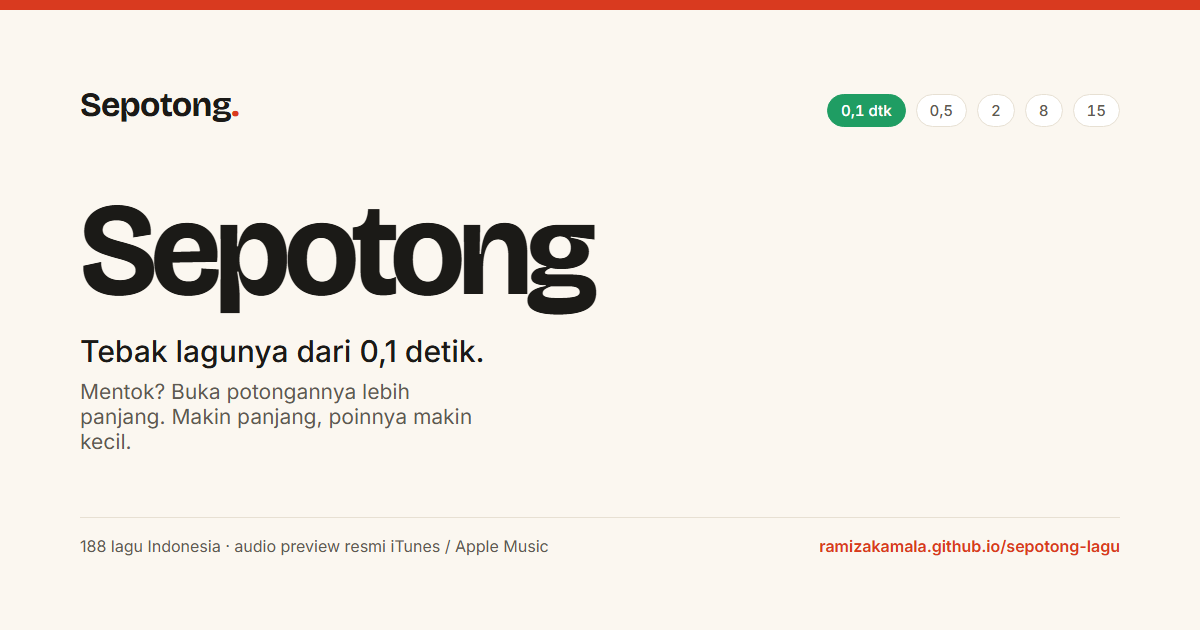
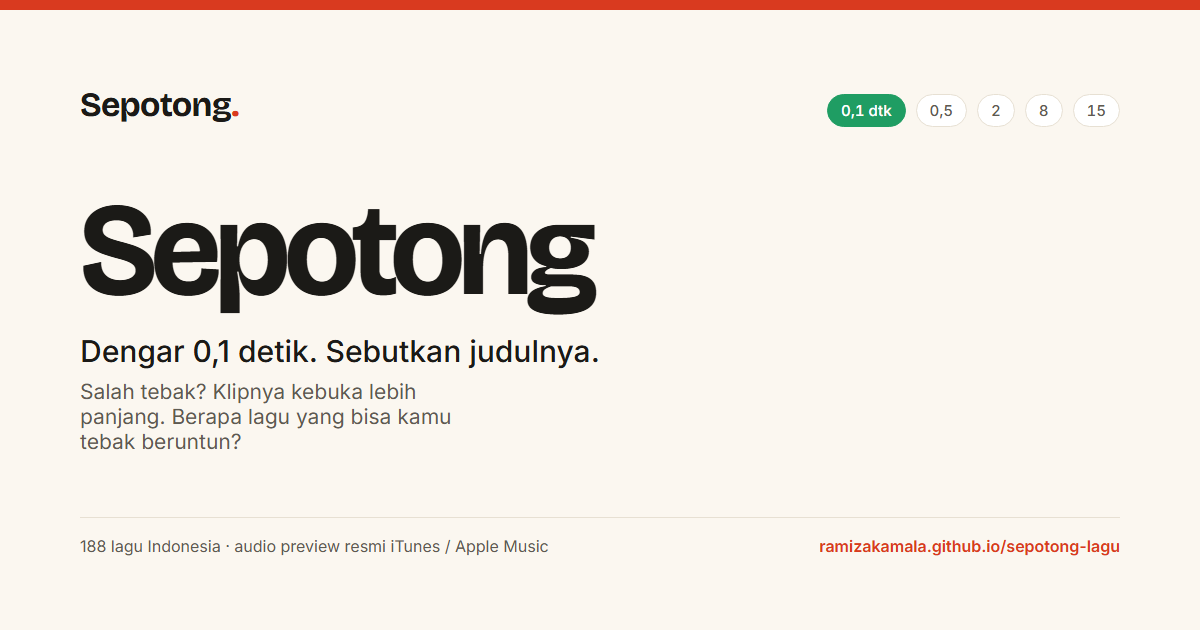
Memperbarui dokumentasi dan gambar pratinjau sesuai sistem beruntun
Dokumentasi menjelaskan alur satu lagu, aturan beruntun, penyimpanan
rekor, hasil pengukuran presisi klip, serta alasan tingkat kesulitan
ala Songspot tidak diadopsi karena data jumlah stream lagu tidak
tersedia.

Changed region(s): [[0.0617, 0.5429, 0.4933, 0.7238]]

diff --git a/README.md b/README.md
@@ -1,8 +1,8 @@
 # Sepotong
 
-Game tebak lagu Indonesia. Pemain mendengar potongan **0,1 detik**. Kalau belum yakin, potongan yang sama dibuka lebih panjang: 0,5 → 2 → 8 → 15 detik, dan poin turun tiap kali dibuka. Satu sesi 10 soal.
+Game tebak lagu Indonesia dengan potongan 0,1 detik. Pemain mendengar potongan pendek, mengetik judul lagunya, dan setiap tebakan yang salah membuka potongan yang sama lebih panjang: 0,1 → 0,5 → 2 → 8 → 15 detik. Skornya bukan poin, tapi **beruntun** (jumlah lagu yang ditebak benar tanpa terputus) dan waktu tebak.
 
-Referensi mekanik: songspot.net (versi aslinya memakai lagu luar). Bank lagu, aturan skor, dan tampilan di sini dibuat sendiri.
+Sistemnya mengikuti Songspot (songspot.net): ketik judul, salah tebak membuka klip, lewati atau menyerah memutus beruntun. Bedanya, bank lagu di sini khusus lagu Indonesia.
 
 ## Cara jalanin
 
@@ -16,40 +16,44 @@ python -m http.server 8000
 
 lalu buka http://127.0.0.1:8000
 
+## Alur satu lagu
+
+1. Klip 0,1 detik diputar otomatis. Tombol putar dan tombol spasi memutar ulang potongan yang sama tanpa biaya.
+2. Pemain mengetik judul. Saran muncul dari bank lagu (judul dan nama artis), maksimal 6 baris, dan jawaban diambil dari saran itu supaya tidak ada salah ketik yang dihitung salah.
+3. Tebakan salah: potongan dibuka ke tahap berikutnya dari titik yang sama dan diputar otomatis. Tebakan yang sudah dicoba ditandai.
+4. Benar: beruntun bertambah, waktu tebak tercatat, dan layar jawaban muncul dengan cover, judul, artis, tahun, genre, pemutar 30 detik, dan tautan Apple Music kalau ada.
+5. Salah di tahap terakhir, lewati, atau menyerah: beruntun kembali ke nol, rekor tetap tersimpan. Layar jawaban menampilkan lagu yang sebenarnya.
+
 ## Isi
 
 | File | Fungsi |
 | --- | --- |
-| `index.html` | struktur layar Beranda, Main, Jawaban, Ringkasan, dan tiga sheet |
+| `index.html` | struktur layar Beranda, Main, Jawaban, dan dua sheet |
 | `style.css` | token desain di `:root`, tema terang + gelap, tata letak satu kolom |
-| `app.js` | mesin audio Web Audio API, alur permainan, skor, penyimpanan lokal |
+| `app.js` | mesin audio Web Audio API, pencocokan judul, alur permainan, beruntun |
 | `songs.js` | bank lagu (188 entri): judul, artis, tahun, genre, cover, preview |
 | `og-image.png` | gambar 1200×630 untuk pratinjau tautan |
 
 ## Audio
 
-- Sumber: preview resmi 30 detik dari katalog iTunes / Apple Music (`itunes.apple.com/search`, negara ID). Tidak ada file audio di repo, jadi butuh internet.
-- Pemutaran memakai Web Audio API (`AudioBufferSourceNode.start(0, offset, durasi)`), bukan `<audio>` + timer. Diukur di Chrome: 0,1 s → 0,10 s; 0,5 s → 0,51 s; 2 s → 2,01 s; 8 s → 8,01 s; 15 s → 15,01 s (selisih 1–11 ms).
-- Preview iTunes mengirim `Access-Control-Allow-Origin: *`, jadi bisa di-fetch dan di-decode langsung dari browser. Ini yang membuat Web Audio bisa dipakai tanpa server sendiri; sudah diperiksa lewat header respons.
-- Titik mulai diacak di rentang 3–13 detik, lalu digeser ke bagian yang volumenya minimal 35% dari puncak preview (RMS jendela 0,1 detik). Tujuannya supaya potongan 0,1 detik tidak pernah jatuh di bagian hening. Titik mulai yang sama dipakai untuk semua tahap.
-- Soal berikutnya di-preload selagi pemain berpikir. Kalau satu lagu gagal dimuat, dicoba sekali lagi, lalu diganti lagu lain tanpa mengurangi jumlah soal.
-- Satu suara aktif pada satu waktu; memutar yang baru menghentikan yang lama.
+- Sumber: preview resmi 30 detik dari katalog iTunes / Apple Music (`itunes.apple.com/search`, negara ID). Tidak ada berkas audio di repo, jadi butuh internet.
+- Pemutaran memakai Web Audio API (`AudioBufferSourceNode.start(0, offset, durasi)`), bukan `<audio>` + timer. Diukur di Chrome: 0,1 s → 0,104 s; 2 s → 2,009 s; 15 s → 15,008 s (selisih 4–9 ms).
+- Preview iTunes mengirim `Access-Control-Allow-Origin: *`, jadi bisa di-fetch dan di-decode langsung dari browser tanpa server sendiri.
+- Titik mulai diacak di rentang 3–13 detik lalu digeser ke bagian yang volumenya minimal 35% dari puncak preview (RMS jendela 0,1 detik), supaya potongan 0,1 detik tidak jatuh di bagian hening. Titik yang sama dipakai untuk semua tahap.
+- Bisa diganti ke "awal lagu" lewat Pengaturan: potongan dimulai dari detik 0.
+- Lagu berikutnya di-preload saat pemain masih mengetik. Kalau satu lagu gagal dimuat, dicoba sekali lagi lalu diganti lagu lain.
 
-## Aturan main
+## Beruntun dan rekor
 
-- 10 soal per sesi, 4 pilihan judul, tanpa batas waktu.
-- Poin per soal menurut tahap saat benar: 100 / 70 / 45 / 25 / 10. Salah tidak mengakhiri soal: jawaban salah dimatikan, klip dibuka ke tahap berikutnya (poin ikut turun), lalu pemain masih boleh menebak.
-- Tombol Lewati membuka tahap berikutnya tanpa menebak; di tahap terakhir berubah jadi menyerah (0 poin).
-- Ringkasan menampilkan skor dari 1000, gelar, grid emoji hasil, akurasi, rata-rata tahap, dan rincian per soal. Teks bagikan tidak memuat judul lagu.
-- Keyboard: `1`–`4` menjawab, `spasi` memutar ulang, `enter` lanjut, `esc` menutup sheet.
-- Tema terang dan gelap mengikuti preferensi sistem dan bisa dipaksa lewat Pengaturan. Pilihan tema, suara efek, dan getar disimpan di `localStorage` (`sepotong:v1:*`).
+- `localStorage` kunci `sepotong:v1:streak` menyimpan `{ current, best }`.
+- Beruntun naik untuk setiap lagu yang ditebak benar, dan kembali ke nol saat pemain kalah, lewati, menyerah, atau keluar dari sesi.
+- Rekor (beruntun terbaik) tidak pernah turun.
 
 ## Catatan implementasi
 
-- Dua warna di spesifikasi gagal uji kontras pada latar terang: `--warn #E0A100` (2,12:1) dan `--orange #E87A1E` (2,72:1), padahal komponen UI minimal 3:1. Keduanya digelapkan jadi `#B37F00` (3,30:1) dan `#C05F0C` (4,03:1); pasangan warna lain lolos apa adanya, termasuk `--accent-ink` di atas `--accent` (4,59:1).
-- Bank lagu belum punya URL Apple Music per lagu, jadi tautan "Buka di Apple Music" disembunyikan sesuai aturan (tautan hanya tampil kalau URL tersedia).
-- Bonus beruntun (bagian 8 spesifikasi) belum diterapkan karena masuk fase P2; chip 🔥 tetap menampilkan jumlah jawaban benar berurutan. Skor maksimum tetap 1000.
-- Yang belum ada (fase berikutnya): mode Harian, mode Susah dengan autocomplete, Statistik, Survival, Satu Artis, petunjuk artis, dan genre tambahan.
+- Kesulitan bertingkat ala Songspot (Easy sampai Impossible) **tidak** diadopsi. Di sana tingkat kesulitan ditentukan dari jumlah stream lagu; data itu tidak tersedia untuk bank lagu Indonesia di sini, dan menebaknya berarti mengarang angka. Penyeimbang kesulitan di versi ini: filter genre dan era, plus pilihan titik mulai.
+- Bank lagu belum punya URL Apple Music per lagu, jadi tautan "Buka di Apple Music" hanya muncul kalau URL tersedia.
+- Pencocokan judul mengabaikan huruf besar, tanda baca, dan diakritik. Mengetik judul lengkap lalu Enter juga diterima, tidak harus memilih dari saran.
 
 ## Nambah lagu
 
